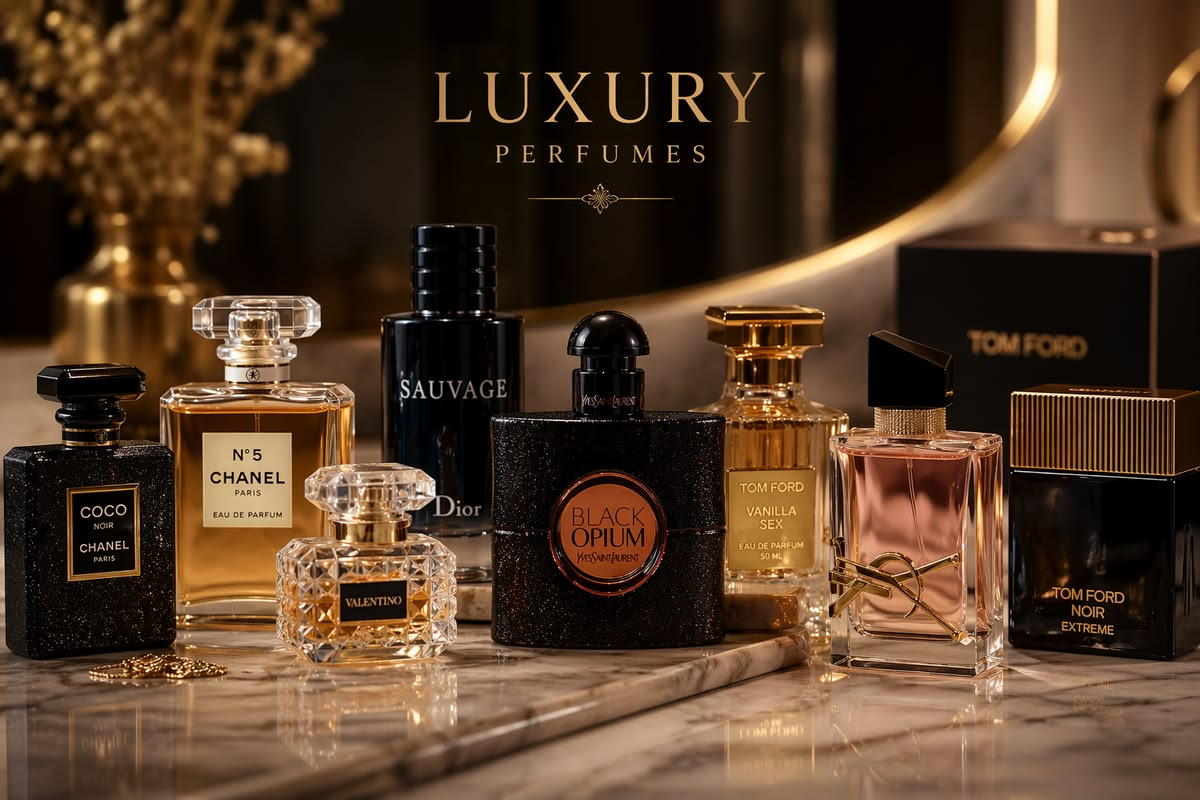
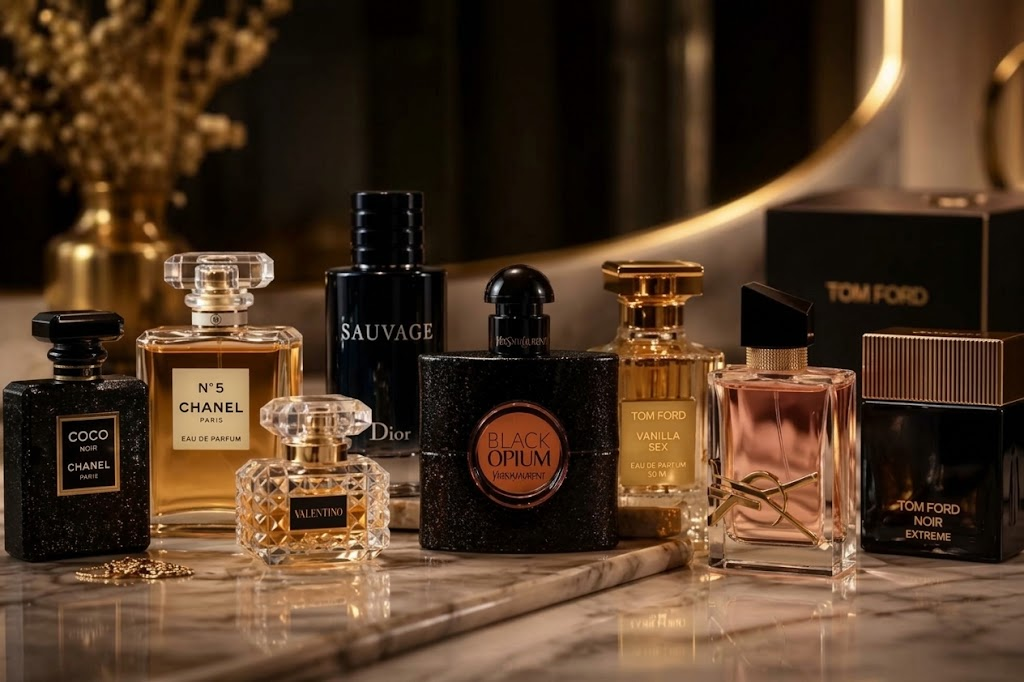
Review

diff --git a/components/HomeView.tsx b/components/HomeView.tsx
@@ -117,7 +117,7 @@ export default function HomeView({
     <>
       {/* ============ HERO ============ */}
       <section className={styles.hero}>
-        {heroImg && <HeroParallax src={heroImg.src} />}
+        {heroImg && <HeroParallax src="/images/ambient-perfume.jpg" />}
         <div className={styles.heroShade} />
         <div className={styles.heroGlow} aria-hidden="true" />
         <MDBContainer className={`${styles.heroContent} py-5`}>

diff --git a/components/HomeView.module.css b/components/HomeView.module.css
@@ -32,9 +32,6 @@
   position: absolute;
   inset: 0;
   pointer-events: none;
-  background:
-    radial-gradient(40% 55% at 76% 16%, rgba(201, 163, 95, 0.22), transparent 70%),
-    radial-gradient(55% 75% at 10% 90%, rgba(70, 116, 180, 0.28), transparent 70%);
 }
 .hero .heroContent {
   position: relative;
